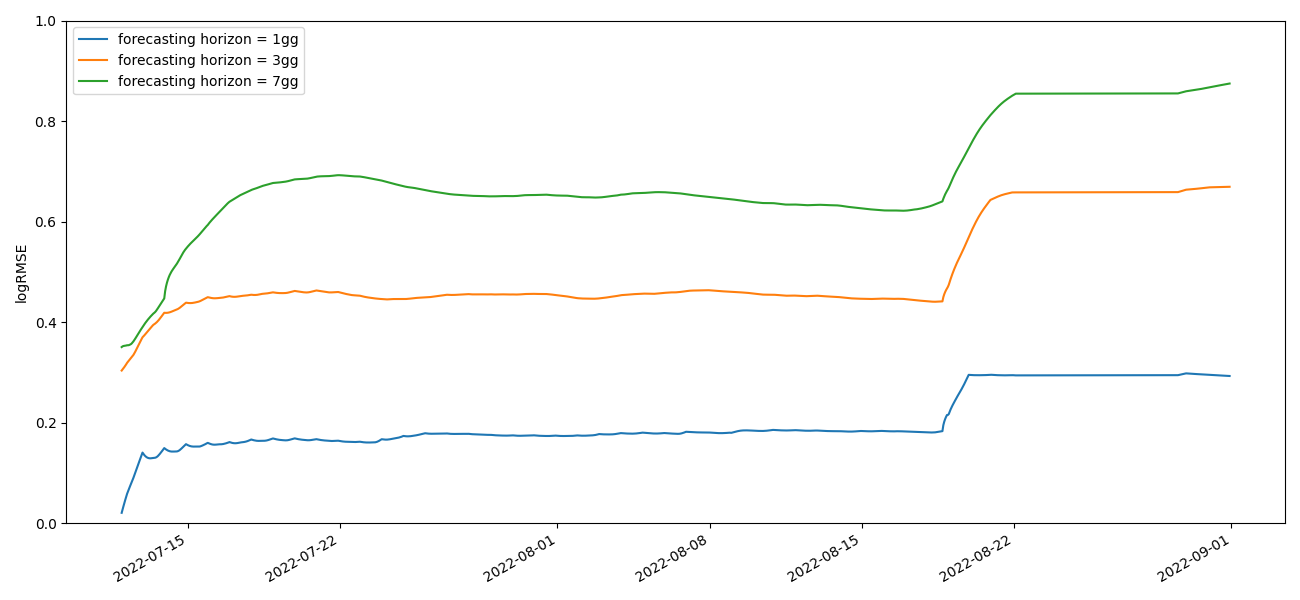
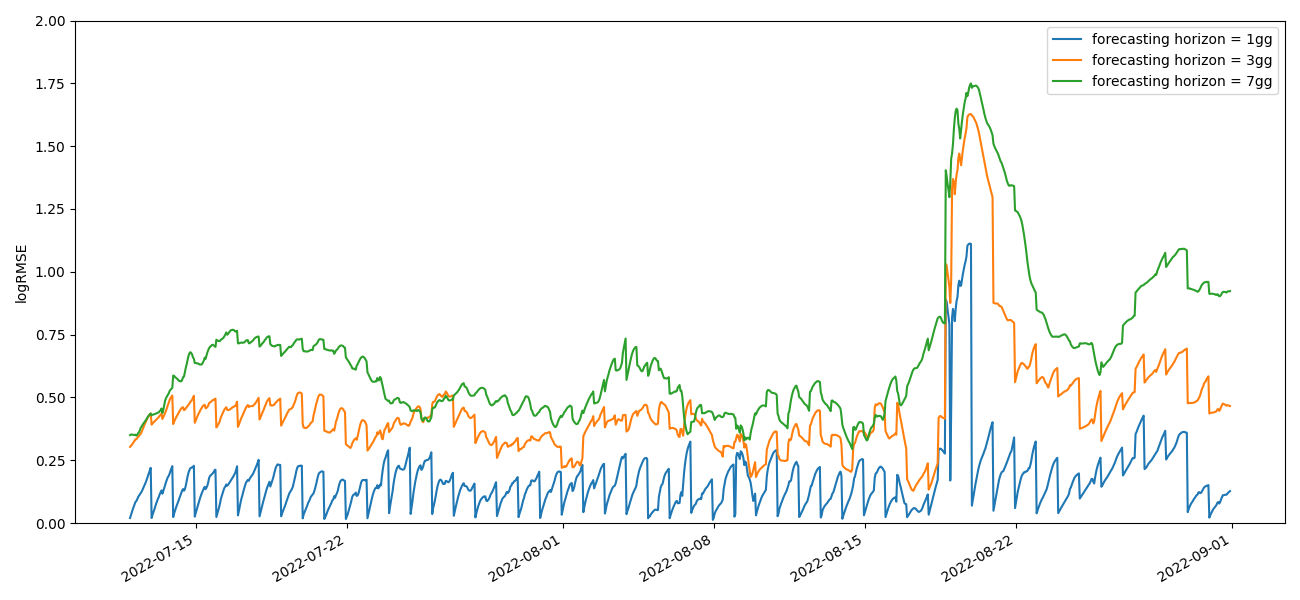
Fix forecasting avg plot

diff --git a/src/plotter/main.py b/src/plotter/main.py
@@ -4,6 +4,8 @@ import matplotlib.pyplot as plt
 from matplotlib.dates import DateFormatter
 import matplotlib.dates as mdates
 from sklearn.metrics import mean_squared_error
+import warnings
+warnings.filterwarnings("ignore")
 
 # Handle date time conversions between pandas and matplotlib
 # from pandas.plotting import register_matplotlib_converters
@@ -257,6 +259,8 @@ def forecast_avg(
             f"_{data_type}"
         )
     df = pd.concat(forecasting_dict.values(), axis=1)
+    df = df.interpolate(method="linear", limit_direction="forward", axis=0)
+    print(df)
     df = df.dropna(axis="index")
     df = df.reset_index()
     new_columns = []
@@ -264,19 +268,24 @@ def forecast_avg(
         if data_type != "obs":
             new_column = f"RMSE_{data_type}"
             new_columns += [new_column]
+            # print(df[[c for c in df.columns if c.endswith("_obs")]].iloc[0])
+            # print(df[[c for c in df.columns if c.endswith("_obs")]].iloc[:1])
+            # print(df[[c for c in df.columns if c.endswith(f"_{data_type}")]].iloc[0])
+            # print(df[[c for c in df.columns if c.endswith(f"_{data_type}")]].iloc[:1])
             df[new_column] = [
                 mean_squared_error(
-                    df[[c for c in df.columns if c.endswith("_obs")]].iloc[:(i+1)],
-                    df[[c for c in df.columns if c.endswith(f"_{data_type}")]].iloc[:(i+1)],
+                    df[[c for c in df.columns if c.endswith("_obs")]].iloc[i:(i+1)],
+                    df[[c for c in df.columns if c.endswith(f"_{data_type}")]].iloc[i:(i+1)],
                     squared=False,
                 )
                 for i in range(df.shape[0])
             ]
+    df = df.append(pd.DataFrame({"timestamp": [1655251200]}), ignore_index=True)
     df = df.set_index("timestamp")
     df = df[new_columns]
     df.index = pd.to_datetime(df.index, unit="s")
+    print(df[-400:-350])
 
-    df = df.interpolate(method="linear", limit_direction="forward", axis=0)
     # print(df)
 
     fig, ax = plt.subplots()
@@ -287,7 +296,7 @@ def forecast_avg(
         }
     )
     df.plot(ax=ax)
-    ax.set_ylim([0, 1])
+    ax.set_ylim([0, 2])
     ax.set_xlabel("")
     ax.set_ylabel("logRMSE")
     fig.set_size_inches(13, 6)
@@ -297,9 +306,9 @@ def forecast_avg(
 
 
 def main():
-    meteo()
-    water()
-    ground_potential()
+    # meteo()
+    # water()
+    # ground_potential()
     forecast_avg()
 
 
